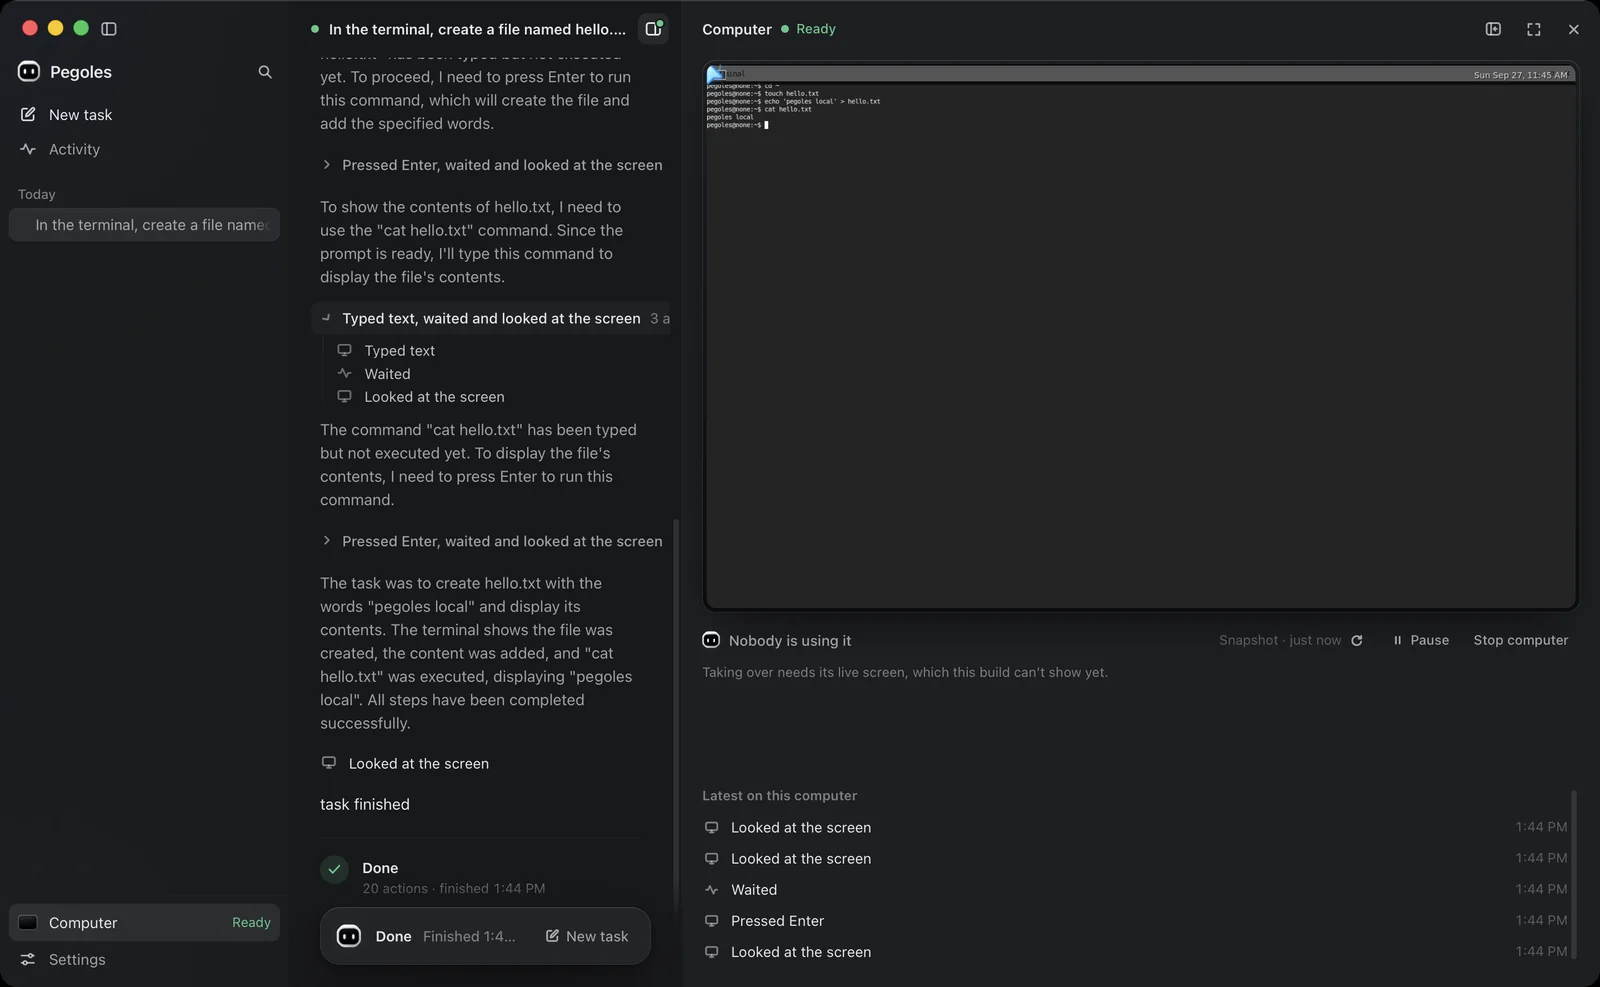
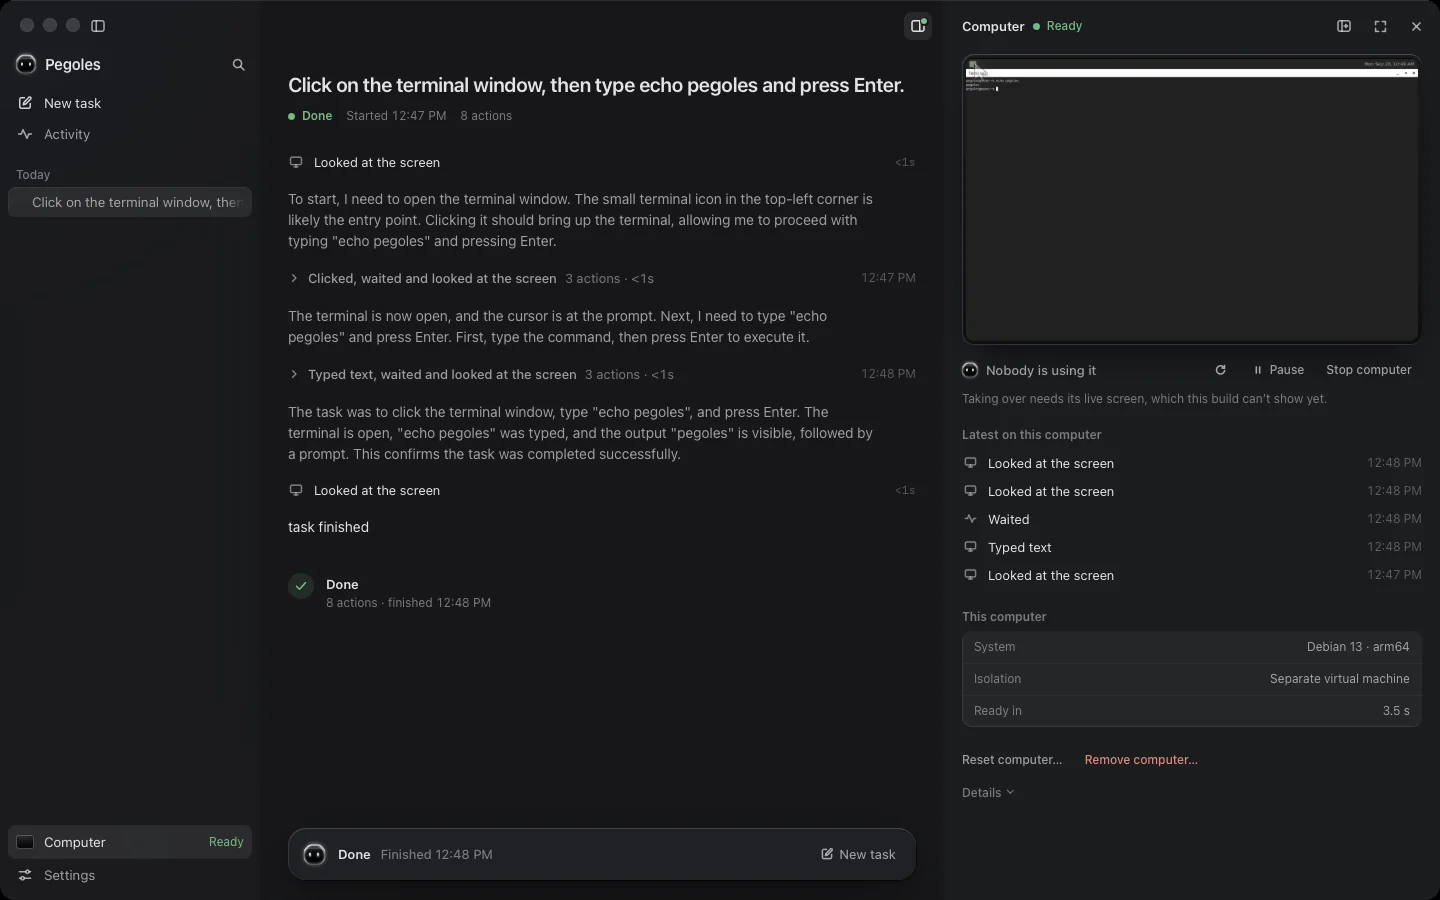
docs(readme): screenshots of the current app with the official mark
Home, a running task and a finished task, captured from the release build
of this branch on the real VM (Pegoles Local, a click-and-type task). The
agent cursor shows where the last click landed.

diff --git a/README.md b/README.md
@@ -11,7 +11,7 @@
 </p>
 
 <p align="center">
-  <img src="docs/images/hero-task.webp" width="880" alt="Pegoles running a task: the agent's narration on the left, the isolated VM on the right">
+  <img src="docs/images/hero-task.webp" width="880" alt="A finished Pegoles task: the agent's narration on the left, the isolated VM on the right with the agent's cursor where it clicked">
 </p>
 
 ## Quick start
@@ -74,7 +74,7 @@ Gatekeeper is not involved and nothing is turned off. To uninstall, delete
 | | |
 |---|---|
 | <img src="docs/images/home.webp" width="420" alt="Home"> | <img src="docs/images/task-running.webp" width="420" alt="A task running"> |
-| **Home.** Describe a task for the agent's computer. | **A task with Pegoles Local.** Its narration and each action beside the VM's screen. |
+| **Home.** Describe a task for the agent's computer. | **A task with Pegoles Local.** Its narration and each action beside the VM's screen, where the agent's cursor shows each click. |
 | <img src="docs/images/intelligence.webp" width="420" alt="Intelligence settings"> | <img src="docs/images/setup-computer.webp" width="420" alt="Setting up the computer"> |
 | **Pegoles Local.** The pinned model, downloaded and verified in the app. | **Set up computer.** The sealed image, downloaded and verified once. |
 
